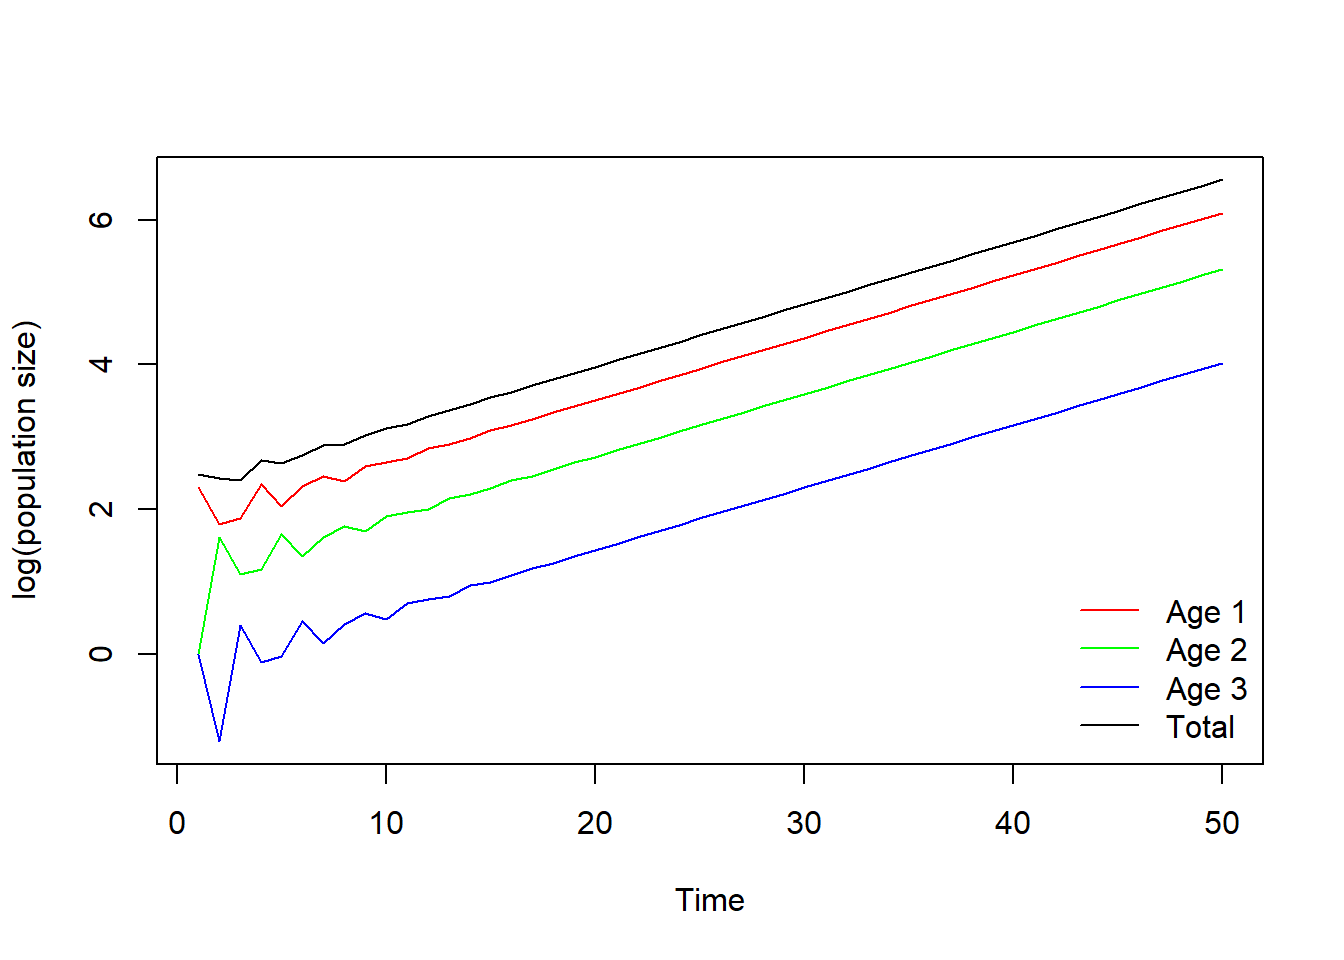
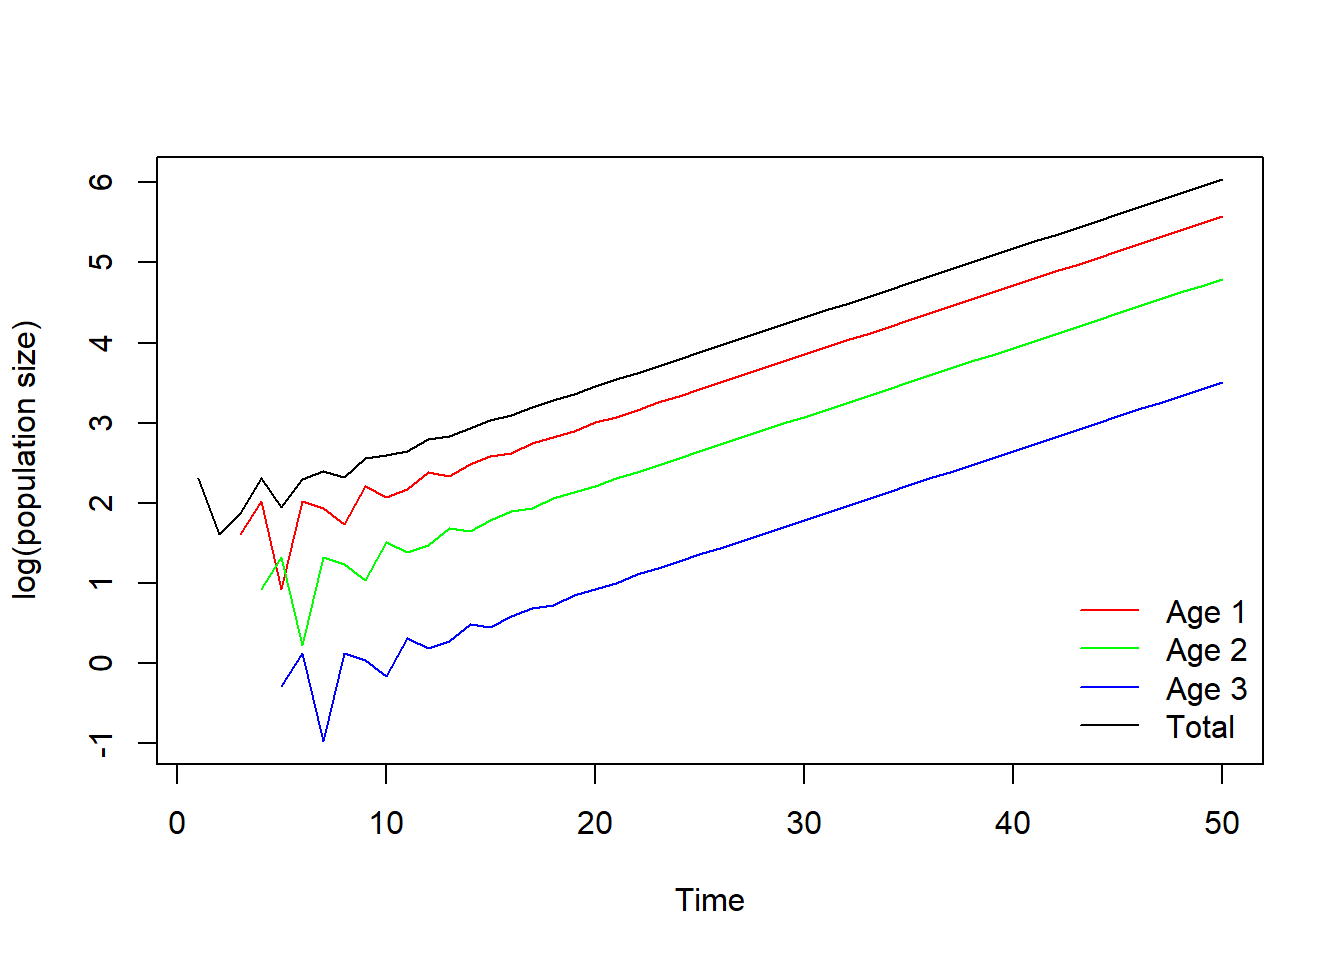
w7 afterclass

diff --git a/_book/week-7---age-structure-population-model.html b/_book/week-7---age-structure-population-model.html
@@ -235,7 +235,7 @@ where <span class="math inline">\(L\)</span> is a Leslie matrix and <span class=
 <span id="cb37-6"><a href="week-7---age-structure-population-model.html#cb37-6" tabindex="-1"></a>                      <span class="at">ncol =</span> <span class="dv">3</span>,</span>
 <span id="cb37-7"><a href="week-7---age-structure-population-model.html#cb37-7" tabindex="-1"></a>                      <span class="at">byrow =</span> T)</span>
 <span id="cb37-8"><a href="week-7---age-structure-population-model.html#cb37-8" tabindex="-1"></a></span>
-<span id="cb37-9"><a href="week-7---age-structure-population-model.html#cb37-9" tabindex="-1"></a>N0 <span class="ot">&lt;-</span> <span class="fu">c</span>(<span class="dv">10</span>, <span class="dv">1</span>, <span class="dv">1</span>)</span>
+<span id="cb37-9"><a href="week-7---age-structure-population-model.html#cb37-9" tabindex="-1"></a>N0 <span class="ot">&lt;-</span> <span class="fu">c</span>(<span class="dv">10</span>, <span class="dv">0</span>, <span class="dv">0</span>)</span>
 <span id="cb37-10"><a href="week-7---age-structure-population-model.html#cb37-10" tabindex="-1"></a></span>
 <span id="cb37-11"><a href="week-7---age-structure-population-model.html#cb37-11" tabindex="-1"></a><span class="do">### for loop and matrix algebra</span></span>
 <span id="cb37-12"><a href="week-7---age-structure-population-model.html#cb37-12" tabindex="-1"></a>time <span class="ot">&lt;-</span> <span class="dv">50</span></span>
@@ -253,13 +253,13 @@ where <span class="math inline">\(L\)</span> is a Leslie matrix and <span class=
 <span id="cb37-24"><a href="week-7---age-structure-population-model.html#cb37-24" tabindex="-1"></a>pop_size<span class="sc">$</span>N <span class="ot">&lt;-</span> <span class="fu">rowSums</span>(pop_size)</span>
 <span id="cb37-25"><a href="week-7---age-structure-population-model.html#cb37-25" tabindex="-1"></a></span>
 <span id="cb37-26"><a href="week-7---age-structure-population-model.html#cb37-26" tabindex="-1"></a><span class="fu">head</span>(pop_size)</span></code></pre></div>
-<pre><code>##     Age1  Age2  Age3      N
-## 1 10.000 1.000 1.000 12.000
-## 2  6.000 5.000 0.300 11.300
-## 3  6.500 3.000 1.500 11.000
-## 4 10.500 3.250 0.900 14.650
-## 5  7.750 5.250 0.975 13.975
-## 6 10.125 3.875 1.575 15.575</code></pre>
+<pre><code>##   Age1 Age2  Age3      N
+## 1 10.0 0.00 0.000 10.000
+## 2  0.0 5.00 0.000  5.000
+## 3  5.0 0.00 1.500  6.500
+## 4  7.5 2.50 0.000 10.000
+## 5  2.5 3.75 0.750  7.000
+## 6  7.5 1.25 1.125  9.875</code></pre>
 <div class="sourceCode" id="cb39"><pre class="sourceCode r"><code class="sourceCode r"><span id="cb39-1"><a href="week-7---age-structure-population-model.html#cb39-1" tabindex="-1"></a><span class="fu">plot</span>(<span class="fu">c</span>(<span class="dv">1</span>,time), <span class="fu">c</span>(<span class="dv">0</span>,<span class="dv">265</span>), <span class="at">type =</span> <span class="st">&quot;n&quot;</span>, <span class="at">xlab =</span> <span class="st">&quot;time&quot;</span>, <span class="at">ylab =</span> <span class="st">&quot;pop_size&quot;</span>)</span>
 <span id="cb39-2"><a href="week-7---age-structure-population-model.html#cb39-2" tabindex="-1"></a><span class="fu">lines</span>(<span class="dv">1</span><span class="sc">:</span>time , pop_size<span class="sc">$</span>Age1, <span class="at">col =</span> <span class="st">&quot;red&quot;</span>)</span>
 <span id="cb39-3"><a href="week-7---age-structure-population-model.html#cb39-3" tabindex="-1"></a><span class="fu">lines</span>(<span class="dv">1</span><span class="sc">:</span>time , pop_size<span class="sc">$</span>Age2, <span class="at">col =</span> <span class="st">&quot;blue&quot;</span>)</span>
@@ -285,11 +285,11 @@ where <span class="math inline">\(c\)</span> is a constant, <span class="math in
 <span id="cb41-2"><a href="week-7---age-structure-population-model.html#cb41-2" tabindex="-1"></a></span>
 <span id="cb41-3"><a href="week-7---age-structure-population-model.html#cb41-3" tabindex="-1"></a>asymptotic_growth <span class="ot">&lt;-</span> pop_size<span class="sc">$</span>N[time]<span class="sc">/</span>pop_size<span class="sc">$</span>N[time<span class="dv">-1</span>]</span>
 <span id="cb41-4"><a href="week-7---age-structure-population-model.html#cb41-4" tabindex="-1"></a>asymptotic_growth</span></code></pre></div>
-<pre><code>## [1] 1.089991</code></pre>
+<pre><code>## [1] 1.089992</code></pre>
 <div class="sourceCode" id="cb43"><pre class="sourceCode r"><code class="sourceCode r"><span id="cb43-1"><a href="week-7---age-structure-population-model.html#cb43-1" tabindex="-1"></a>age_distribution <span class="ot">&lt;-</span> pop_size[time, <span class="dv">1</span><span class="sc">:</span><span class="dv">3</span>]<span class="sc">/</span><span class="fu">sum</span>(pop_size[time, <span class="dv">1</span><span class="sc">:</span><span class="dv">3</span>])</span>
 <span id="cb43-2"><a href="week-7---age-structure-population-model.html#cb43-2" tabindex="-1"></a>age_distribution</span></code></pre></div>
 <pre><code>##         Age1      Age2       Age3
-## 50 0.6309254 0.2894175 0.07965708</code></pre>
+## 50 0.6309262 0.2894167 0.07965713</code></pre>
 <div class="sourceCode" id="cb45"><pre class="sourceCode r"><code class="sourceCode r"><span id="cb45-1"><a href="week-7---age-structure-population-model.html#cb45-1" tabindex="-1"></a><span class="do">### Eigen-analysis of the Leslie matrix</span></span>
 <span id="cb45-2"><a href="week-7---age-structure-population-model.html#cb45-2" tabindex="-1"></a>EIGEN <span class="ot">&lt;-</span> <span class="fu">eigen</span>(leslie)</span>
 <span id="cb45-3"><a href="week-7---age-structure-population-model.html#cb45-3" tabindex="-1"></a>EIGEN</span></code></pre></div>
@@ -313,6 +313,24 @@ where <span class="math inline">\(c\)</span> is a constant, <span class="math in
 <p>Here is a transition diagram for the teasel. Please convert this diagram into a stage-based transition matrix (Lefkovitch matrix) and derive the asymptotic growth rate <span class="math inline">\(\lambda\)</span> in R.</p>
 <p><img src="Teasel%20Diagram.png" width= "100%"/></p>
 <p><br></p>
+<div class="sourceCode" id="cb51"><pre class="sourceCode r"><code class="sourceCode r"><span id="cb51-1"><a href="week-7---age-structure-population-model.html#cb51-1" tabindex="-1"></a><span class="do">### Leslie matrix for Teasel</span></span>
+<span id="cb51-2"><a href="week-7---age-structure-population-model.html#cb51-2" tabindex="-1"></a>Teasel <span class="ot">&lt;-</span> <span class="fu">matrix</span>(<span class="at">data =</span> <span class="fu">c</span>(<span class="dv">0</span>,      <span class="dv">0</span>,      <span class="dv">0</span>,      <span class="dv">0</span>,      <span class="dv">0</span>,      <span class="fl">322.38</span>,</span>
+<span id="cb51-3"><a href="week-7---age-structure-population-model.html#cb51-3" tabindex="-1"></a>                          <span class="fl">0.966</span>,  <span class="dv">0</span>,      <span class="dv">0</span>,      <span class="dv">0</span>,      <span class="dv">0</span>,      <span class="dv">0</span>,</span>
+<span id="cb51-4"><a href="week-7---age-structure-population-model.html#cb51-4" tabindex="-1"></a>                          <span class="fl">0.013</span>,  <span class="fl">0.010</span>,  <span class="fl">0.125</span>,  <span class="dv">0</span>,      <span class="dv">0</span>,      <span class="fl">3.448</span>,</span>
+<span id="cb51-5"><a href="week-7---age-structure-population-model.html#cb51-5" tabindex="-1"></a>                          <span class="fl">0.007</span>,  <span class="dv">0</span>,      <span class="fl">0.125</span>,  <span class="fl">0.238</span>,  <span class="dv">0</span>,      <span class="fl">30.17</span>,</span>
+<span id="cb51-6"><a href="week-7---age-structure-population-model.html#cb51-6" tabindex="-1"></a>                          <span class="fl">0.008</span>,  <span class="dv">0</span>,      <span class="dv">0</span>,      <span class="fl">0.245</span>,  <span class="fl">0.167</span>,  <span class="fl">0.862</span>,</span>
+<span id="cb51-7"><a href="week-7---age-structure-population-model.html#cb51-7" tabindex="-1"></a>                          <span class="dv">0</span>,      <span class="dv">0</span>,      <span class="dv">0</span>,      <span class="fl">0.023</span>,  <span class="fl">0.75</span>,   <span class="dv">0</span>),</span>
+<span id="cb51-8"><a href="week-7---age-structure-population-model.html#cb51-8" tabindex="-1"></a>                 <span class="at">nrow =</span> <span class="dv">6</span>,</span>
+<span id="cb51-9"><a href="week-7---age-structure-population-model.html#cb51-9" tabindex="-1"></a>                 <span class="at">ncol =</span> <span class="dv">6</span>,</span>
+<span id="cb51-10"><a href="week-7---age-structure-population-model.html#cb51-10" tabindex="-1"></a>                 <span class="at">byrow =</span> T)</span>
+<span id="cb51-11"><a href="week-7---age-structure-population-model.html#cb51-11" tabindex="-1"></a><span class="do">### Use eigen() function</span></span>
+<span id="cb51-12"><a href="week-7---age-structure-population-model.html#cb51-12" tabindex="-1"></a>EIGEN <span class="ot">&lt;-</span> <span class="fu">eigen</span>(Teasel)</span>
+<span id="cb51-13"><a href="week-7---age-structure-population-model.html#cb51-13" tabindex="-1"></a><span class="do">### Dominant eigenvalue</span></span>
+<span id="cb51-14"><a href="week-7---age-structure-population-model.html#cb51-14" tabindex="-1"></a><span class="fu">abs</span>(EIGEN<span class="sc">$</span>values[<span class="dv">1</span>])</span></code></pre></div>
+<pre><code>## [1] 2.32188</code></pre>
+<div class="sourceCode" id="cb53"><pre class="sourceCode r"><code class="sourceCode r"><span id="cb53-1"><a href="week-7---age-structure-population-model.html#cb53-1" tabindex="-1"></a><span class="do">### corresponding eigenvector</span></span>
+<span id="cb53-2"><a href="week-7---age-structure-population-model.html#cb53-2" tabindex="-1"></a><span class="fu">round</span>(<span class="fu">as.numeric</span>(EIGEN<span class="sc">$</span>vectors[, <span class="dv">1</span>] <span class="sc">/</span> <span class="fu">sum</span>(EIGEN<span class="sc">$</span>vectors[, <span class="dv">1</span>])), <span class="dv">3</span>)</span></code></pre></div>
+<pre><code>## [1] 0.637 0.265 0.012 0.069 0.012 0.005</code></pre>
 <p><strong>Part 4 - COM(P)ADRE: A global database of population matrices</strong></p>
 <p><a href="https://compadre-db.org/ExploreDatabase">COM(P)ADRE</a> is an online repository containing matrix population models on hundreds of plants, animals, algae, fungi, bacteria, and viruses around the world, as well as their associated metadata. Take a look at the website: You will be exploring the population dynamics of a species (of your choice) in your assignment!</p>
 <p><br></p>
@@ -355,7 +373,7 @@ gitbook.start({
 "size": 2
 },
 "edit": {
-"link": "https://github.com/ChingLinHuang/2022_Fall_TheoEcol/07_Week_7_age.Rmd",
+"link": "https://github.com/ChingLinHuang/2022_Fall_TheoEcol/07_Week_7_age_afterclass.Rmd",
 "text": "Edit"
 },
 "history": {

diff --git a/week-7---age-structure-population-model.html b/week-7---age-structure-population-model.html
@@ -235,7 +235,7 @@ where <span class="math inline">\(L\)</span> is a Leslie matrix and <span class=
 <span id="cb37-6"><a href="week-7---age-structure-population-model.html#cb37-6" tabindex="-1"></a>                      <span class="at">ncol =</span> <span class="dv">3</span>,</span>
 <span id="cb37-7"><a href="week-7---age-structure-population-model.html#cb37-7" tabindex="-1"></a>                      <span class="at">byrow =</span> T)</span>
 <span id="cb37-8"><a href="week-7---age-structure-population-model.html#cb37-8" tabindex="-1"></a></span>
-<span id="cb37-9"><a href="week-7---age-structure-population-model.html#cb37-9" tabindex="-1"></a>N0 <span class="ot">&lt;-</span> <span class="fu">c</span>(<span class="dv">10</span>, <span class="dv">1</span>, <span class="dv">1</span>)</span>
+<span id="cb37-9"><a href="week-7---age-structure-population-model.html#cb37-9" tabindex="-1"></a>N0 <span class="ot">&lt;-</span> <span class="fu">c</span>(<span class="dv">10</span>, <span class="dv">0</span>, <span class="dv">0</span>)</span>
 <span id="cb37-10"><a href="week-7---age-structure-population-model.html#cb37-10" tabindex="-1"></a></span>
 <span id="cb37-11"><a href="week-7---age-structure-population-model.html#cb37-11" tabindex="-1"></a><span class="do">### for loop and matrix algebra</span></span>
 <span id="cb37-12"><a href="week-7---age-structure-population-model.html#cb37-12" tabindex="-1"></a>time <span class="ot">&lt;-</span> <span class="dv">50</span></span>
@@ -253,13 +253,13 @@ where <span class="math inline">\(L\)</span> is a Leslie matrix and <span class=
 <span id="cb37-24"><a href="week-7---age-structure-population-model.html#cb37-24" tabindex="-1"></a>pop_size<span class="sc">$</span>N <span class="ot">&lt;-</span> <span class="fu">rowSums</span>(pop_size)</span>
 <span id="cb37-25"><a href="week-7---age-structure-population-model.html#cb37-25" tabindex="-1"></a></span>
 <span id="cb37-26"><a href="week-7---age-structure-population-model.html#cb37-26" tabindex="-1"></a><span class="fu">head</span>(pop_size)</span></code></pre></div>
-<pre><code>##     Age1  Age2  Age3      N
-## 1 10.000 1.000 1.000 12.000
-## 2  6.000 5.000 0.300 11.300
-## 3  6.500 3.000 1.500 11.000
-## 4 10.500 3.250 0.900 14.650
-## 5  7.750 5.250 0.975 13.975
-## 6 10.125 3.875 1.575 15.575</code></pre>
+<pre><code>##   Age1 Age2  Age3      N
+## 1 10.0 0.00 0.000 10.000
+## 2  0.0 5.00 0.000  5.000
+## 3  5.0 0.00 1.500  6.500
+## 4  7.5 2.50 0.000 10.000
+## 5  2.5 3.75 0.750  7.000
+## 6  7.5 1.25 1.125  9.875</code></pre>
 <div class="sourceCode" id="cb39"><pre class="sourceCode r"><code class="sourceCode r"><span id="cb39-1"><a href="week-7---age-structure-population-model.html#cb39-1" tabindex="-1"></a><span class="fu">plot</span>(<span class="fu">c</span>(<span class="dv">1</span>,time), <span class="fu">c</span>(<span class="dv">0</span>,<span class="dv">265</span>), <span class="at">type =</span> <span class="st">&quot;n&quot;</span>, <span class="at">xlab =</span> <span class="st">&quot;time&quot;</span>, <span class="at">ylab =</span> <span class="st">&quot;pop_size&quot;</span>)</span>
 <span id="cb39-2"><a href="week-7---age-structure-population-model.html#cb39-2" tabindex="-1"></a><span class="fu">lines</span>(<span class="dv">1</span><span class="sc">:</span>time , pop_size<span class="sc">$</span>Age1, <span class="at">col =</span> <span class="st">&quot;red&quot;</span>)</span>
 <span id="cb39-3"><a href="week-7---age-structure-population-model.html#cb39-3" tabindex="-1"></a><span class="fu">lines</span>(<span class="dv">1</span><span class="sc">:</span>time , pop_size<span class="sc">$</span>Age2, <span class="at">col =</span> <span class="st">&quot;blue&quot;</span>)</span>
@@ -285,11 +285,11 @@ where <span class="math inline">\(c\)</span> is a constant, <span class="math in
 <span id="cb41-2"><a href="week-7---age-structure-population-model.html#cb41-2" tabindex="-1"></a></span>
 <span id="cb41-3"><a href="week-7---age-structure-population-model.html#cb41-3" tabindex="-1"></a>asymptotic_growth <span class="ot">&lt;-</span> pop_size<span class="sc">$</span>N[time]<span class="sc">/</span>pop_size<span class="sc">$</span>N[time<span class="dv">-1</span>]</span>
 <span id="cb41-4"><a href="week-7---age-structure-population-model.html#cb41-4" tabindex="-1"></a>asymptotic_growth</span></code></pre></div>
-<pre><code>## [1] 1.089991</code></pre>
+<pre><code>## [1] 1.089992</code></pre>
 <div class="sourceCode" id="cb43"><pre class="sourceCode r"><code class="sourceCode r"><span id="cb43-1"><a href="week-7---age-structure-population-model.html#cb43-1" tabindex="-1"></a>age_distribution <span class="ot">&lt;-</span> pop_size[time, <span class="dv">1</span><span class="sc">:</span><span class="dv">3</span>]<span class="sc">/</span><span class="fu">sum</span>(pop_size[time, <span class="dv">1</span><span class="sc">:</span><span class="dv">3</span>])</span>
 <span id="cb43-2"><a href="week-7---age-structure-population-model.html#cb43-2" tabindex="-1"></a>age_distribution</span></code></pre></div>
 <pre><code>##         Age1      Age2       Age3
-## 50 0.6309254 0.2894175 0.07965708</code></pre>
+## 50 0.6309262 0.2894167 0.07965713</code></pre>
 <div class="sourceCode" id="cb45"><pre class="sourceCode r"><code class="sourceCode r"><span id="cb45-1"><a href="week-7---age-structure-population-model.html#cb45-1" tabindex="-1"></a><span class="do">### Eigen-analysis of the Leslie matrix</span></span>
 <span id="cb45-2"><a href="week-7---age-structure-population-model.html#cb45-2" tabindex="-1"></a>EIGEN <span class="ot">&lt;-</span> <span class="fu">eigen</span>(leslie)</span>
 <span id="cb45-3"><a href="week-7---age-structure-population-model.html#cb45-3" tabindex="-1"></a>EIGEN</span></code></pre></div>
@@ -313,6 +313,24 @@ where <span class="math inline">\(c\)</span> is a constant, <span class="math in
 <p>Here is a transition diagram for the teasel. Please convert this diagram into a stage-based transition matrix (Lefkovitch matrix) and derive the asymptotic growth rate <span class="math inline">\(\lambda\)</span> in R.</p>
 <p><img src="Teasel%20Diagram.png" width= "100%"/></p>
 <p><br></p>
+<div class="sourceCode" id="cb51"><pre class="sourceCode r"><code class="sourceCode r"><span id="cb51-1"><a href="week-7---age-structure-population-model.html#cb51-1" tabindex="-1"></a><span class="do">### Leslie matrix for Teasel</span></span>
+<span id="cb51-2"><a href="week-7---age-structure-population-model.html#cb51-2" tabindex="-1"></a>Teasel <span class="ot">&lt;-</span> <span class="fu">matrix</span>(<span class="at">data =</span> <span class="fu">c</span>(<span class="dv">0</span>,      <span class="dv">0</span>,      <span class="dv">0</span>,      <span class="dv">0</span>,      <span class="dv">0</span>,      <span class="fl">322.38</span>,</span>
+<span id="cb51-3"><a href="week-7---age-structure-population-model.html#cb51-3" tabindex="-1"></a>                          <span class="fl">0.966</span>,  <span class="dv">0</span>,      <span class="dv">0</span>,      <span class="dv">0</span>,      <span class="dv">0</span>,      <span class="dv">0</span>,</span>
+<span id="cb51-4"><a href="week-7---age-structure-population-model.html#cb51-4" tabindex="-1"></a>                          <span class="fl">0.013</span>,  <span class="fl">0.010</span>,  <span class="fl">0.125</span>,  <span class="dv">0</span>,      <span class="dv">0</span>,      <span class="fl">3.448</span>,</span>
+<span id="cb51-5"><a href="week-7---age-structure-population-model.html#cb51-5" tabindex="-1"></a>                          <span class="fl">0.007</span>,  <span class="dv">0</span>,      <span class="fl">0.125</span>,  <span class="fl">0.238</span>,  <span class="dv">0</span>,      <span class="fl">30.17</span>,</span>
+<span id="cb51-6"><a href="week-7---age-structure-population-model.html#cb51-6" tabindex="-1"></a>                          <span class="fl">0.008</span>,  <span class="dv">0</span>,      <span class="dv">0</span>,      <span class="fl">0.245</span>,  <span class="fl">0.167</span>,  <span class="fl">0.862</span>,</span>
+<span id="cb51-7"><a href="week-7---age-structure-population-model.html#cb51-7" tabindex="-1"></a>                          <span class="dv">0</span>,      <span class="dv">0</span>,      <span class="dv">0</span>,      <span class="fl">0.023</span>,  <span class="fl">0.75</span>,   <span class="dv">0</span>),</span>
+<span id="cb51-8"><a href="week-7---age-structure-population-model.html#cb51-8" tabindex="-1"></a>                 <span class="at">nrow =</span> <span class="dv">6</span>,</span>
+<span id="cb51-9"><a href="week-7---age-structure-population-model.html#cb51-9" tabindex="-1"></a>                 <span class="at">ncol =</span> <span class="dv">6</span>,</span>
+<span id="cb51-10"><a href="week-7---age-structure-population-model.html#cb51-10" tabindex="-1"></a>                 <span class="at">byrow =</span> T)</span>
+<span id="cb51-11"><a href="week-7---age-structure-population-model.html#cb51-11" tabindex="-1"></a><span class="do">### Use eigen() function</span></span>
+<span id="cb51-12"><a href="week-7---age-structure-population-model.html#cb51-12" tabindex="-1"></a>EIGEN <span class="ot">&lt;-</span> <span class="fu">eigen</span>(Teasel)</span>
+<span id="cb51-13"><a href="week-7---age-structure-population-model.html#cb51-13" tabindex="-1"></a><span class="do">### Dominant eigenvalue</span></span>
+<span id="cb51-14"><a href="week-7---age-structure-population-model.html#cb51-14" tabindex="-1"></a><span class="fu">abs</span>(EIGEN<span class="sc">$</span>values[<span class="dv">1</span>])</span></code></pre></div>
+<pre><code>## [1] 2.32188</code></pre>
+<div class="sourceCode" id="cb53"><pre class="sourceCode r"><code class="sourceCode r"><span id="cb53-1"><a href="week-7---age-structure-population-model.html#cb53-1" tabindex="-1"></a><span class="do">### corresponding eigenvector</span></span>
+<span id="cb53-2"><a href="week-7---age-structure-population-model.html#cb53-2" tabindex="-1"></a><span class="fu">round</span>(<span class="fu">as.numeric</span>(EIGEN<span class="sc">$</span>vectors[, <span class="dv">1</span>] <span class="sc">/</span> <span class="fu">sum</span>(EIGEN<span class="sc">$</span>vectors[, <span class="dv">1</span>])), <span class="dv">3</span>)</span></code></pre></div>
+<pre><code>## [1] 0.637 0.265 0.012 0.069 0.012 0.005</code></pre>
 <p><strong>Part 4 - COM(P)ADRE: A global database of population matrices</strong></p>
 <p><a href="https://compadre-db.org/ExploreDatabase">COM(P)ADRE</a> is an online repository containing matrix population models on hundreds of plants, animals, algae, fungi, bacteria, and viruses around the world, as well as their associated metadata. Take a look at the website: You will be exploring the population dynamics of a species (of your choice) in your assignment!</p>
 <p><br></p>
@@ -355,7 +373,7 @@ gitbook.start({
 "size": 2
 },
 "edit": {
-"link": "https://github.com/ChingLinHuang/2022_Fall_TheoEcol/07_Week_7_age.Rmd",
+"link": "https://github.com/ChingLinHuang/2022_Fall_TheoEcol/07_Week_7_age_afterclass.Rmd",
 "text": "Edit"
 },
 "history": {
